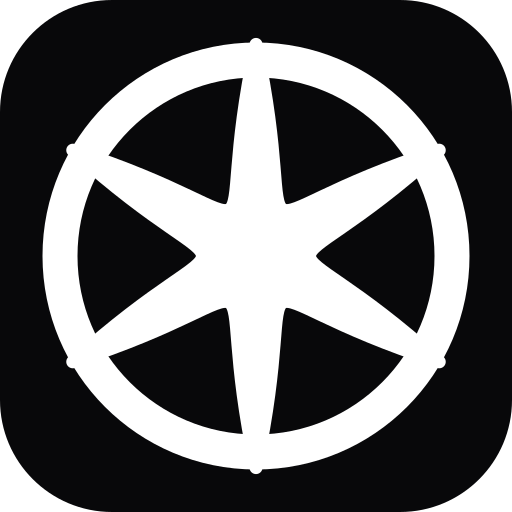
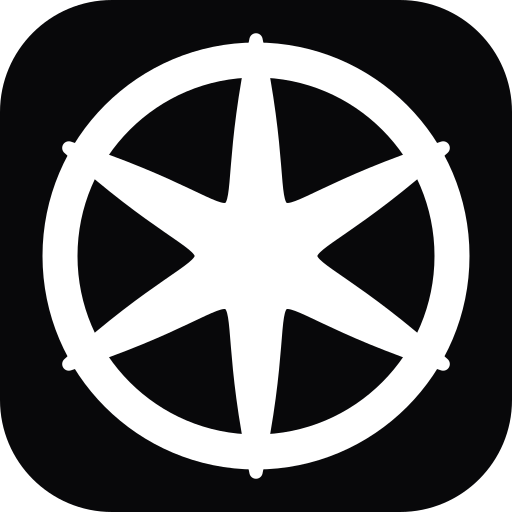
Extend CORE star tips beyond the circular rim

diff --git a/components/brand/CoreSymbol.tsx b/components/brand/CoreSymbol.tsx
@@ -6,7 +6,7 @@ export function CoreSymbolArt() {
     <g transform="translate(32 32)" fill="currentColor">
       <circle r="28" fill="none" stroke="currentColor" strokeWidth="5" />
       <path
-        transform="rotate(-30.5) scale(.93)"
+        transform="rotate(-30.5) scale(.95)"
         d="M32.499 .284C-2.565 7.478 5.297-5.869 16.004 28.287C-7.759 1.517 7.731 1.652-16.495 28.003C-5.193-5.961 2.434 7.522-32.499-.284C2.565-7.478-5.297 5.869-16.004-28.287C7.759-1.517-7.731-1.652 16.495-28.003C5.193 5.961-2.434-7.522 32.499 .284Z"
         stroke="currentColor"
         strokeWidth="2"
